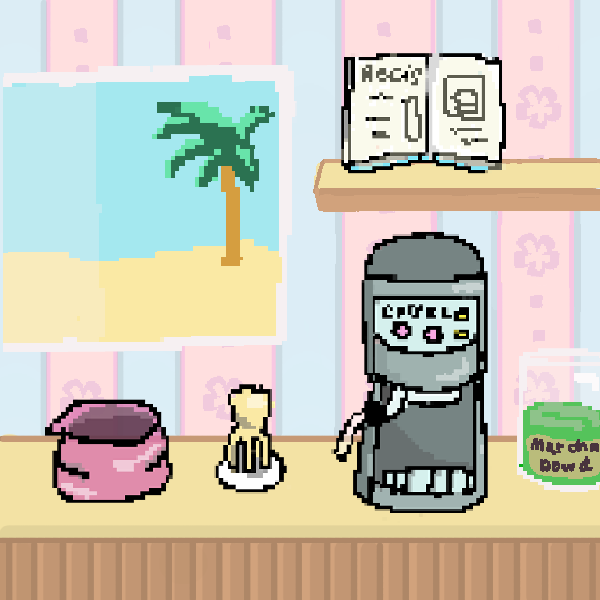
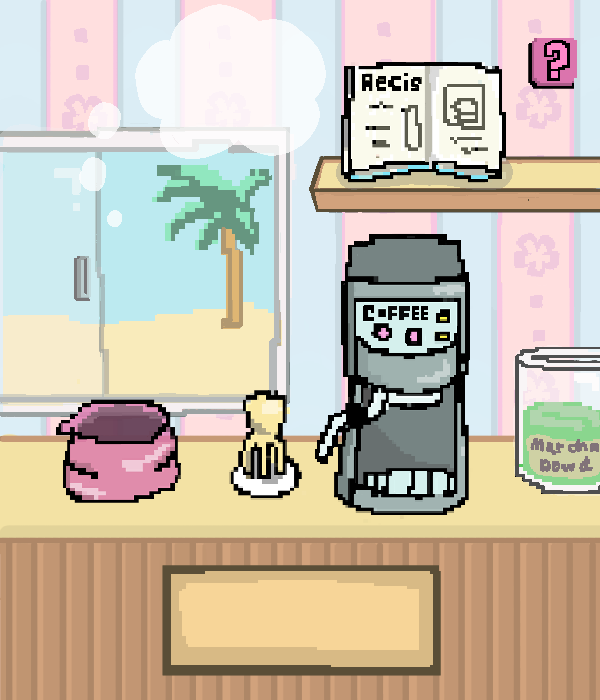
trying to add different screens and added new classes

diff --git a/demo-screens.py b/demo-screens.py
@@ -1,61 +1,59 @@
-# # From: https://academy.cs.cmu.edu/cpcs-docs/screens
+# From: https://academy.cs.cmu.edu/cpcs-docs/screens
 
-# from cmu_graphics import *
+from cmu_graphics import *
 
-# def onAppStart(app):
-#     # The model is shared between all screens
-#     app.score = 0
-#     app.highScore = 0
-#     app.fill = 'blue'
-#     app.x = 200
-#     app.y = 200
-#     app.r = 50
+def onAppStart(app):
+    # The model is shared between all screens
+    app.score = 0
+    app.highScore = 0
+    app.fill = 'blue'
+    app.x = 200
+    app.y = 200
+    app.r = 50
 
-# def distance(x1, y1, x2, y2):
-#     return ((x2 - x1)**2 + (y2 - y1)**2)**0.5
+def distance(x1, y1, x2, y2):
+    return ((x2 - x1)**2 + (y2 - y1)**2)**0.5
 
-# ############################################################
-# # Start Screen
-# ############################################################
+############################################################
+# Start Screen
+############################################################
 
-# def start_redrawAll(app):
-#     drawLabel('Welcome!', 200, 160, size=24, bold=True)
-#     # Note: we can access app.highScore (and all app variables) from any screen
-#     drawLabel(f'High Score: {app.highScore}', 200, 200, size=24)
-#     drawLabel('Press space to begin!', 200, 240, size=16)
+def start_redrawAll(app):
+    drawLabel('Welcome!', 200, 160, size=24, bold=True)
+    # Note: we can access app.highScore (and all app variables) from any screen
+    drawLabel(f'High Score: {app.highScore}', 200, 200, size=24)
+    drawLabel('Press space to begin!', 200, 240, size=16)
 
-# def start_onKeyPress(app, key):
-#     if key == 'space':
-#         setActiveScreen('game')
+def start_onMousePress(app, x, y):
+    if (x > 0) and (y > 0):
+        setActiveScreen('game')
 
-# ############################################################
-# # Game Screen
-# ############################################################
+############################################################
+# Game Screen
+############################################################
 
-# def game_onScreenActivate(app):
-#     # Every time we switch to the game screen, reset the score
-#     app.score = 0
+def game_onScreenActivate(app):
+    # Every time we switch to the game screen, reset the score
+    app.score = 0
 
-# def game_onMousePress(app, mouseX, mouseY):
-#     if distance(mouseX, mouseY, app.x, app.y) <= app.r:
-#         app.score += 1
+def game_onMousePress(app, mouseX, mouseY):
+    if distance(mouseX, mouseY, app.x, app.y) <= app.r:
+        app.score += 1
 
-# def game_redrawAll(app):
-#     drawLabel('Press the circle to increase your score!', 200, 40, size=20)
-#     drawLabel('Press r to return to the start screen', 200, 60, size=16)
-#     drawLabel(f'Score: {app.score}', 200, 130, size=16)
-#     drawCircle(app.x, app.y, app.r, fill = app.fill)
+def game_redrawAll(app):
+    drawLabel('Press the circle to increase your score!', 200, 40, size=20)
+    drawLabel('Press r to return to the start screen', 200, 60, size=16)
+    drawLabel(f'Score: {app.score}', 200, 130, size=16)
+    drawCircle(app.x, app.y, app.r, fill = app.fill)
 
-# def game_onKeyPress(app, key):
-#     if key == 'r':
-#         app.highScore = max(app.highScore, app.score)
-#         setActiveScreen('start')
+def game_onMousePress(app, x, y):
+    if x>0 and y >0:
+        setActiveScreen('start')
 
-# ############################################################
-# # Main
-# ############################################################
+############################################################
+# Main
 
-# def main():
-#     runAppWithScreens(initialScreen='start')
+def main():
+    runAppWithScreens(initialScreen='start')
 
-# main()
+main()

diff --git a/main.py b/main.py
@@ -1,31 +1,82 @@
 from cmu_graphics import *
 from PIL import Image, ImageDraw
-
-# from recipes.py import *
+import random
+from customer import *
+from food import *
 
 def onAppStart(app):
+    app.counter = 0
     app.width = 600
-    app.height = 600
-    app.stepsPerSecond = 2
-    app.stepCounter = 0
+    app.height = 700 
+    app.screen = 'start'  
+
+    app.orderNames = [
+         None, 
+        'coconut latte', 'iced americano',  
+        'iced matcha latte', 'hot matcha latte',
+        'ube pancake', 'pandan egg waffle',
+        'mango bingsoo', 'melon bingsoo'
+        ] 
+
+    # images
     app.kitchenImg = CMUImage(Image.open('images/kitchen.png'))
+    app.recipeImg = CMUImage(Image.open('images/recipeScene.png'))
+
+# Mouse Press and Change Screen Functions
+
+def onMousePress(app,mouseX,mouseY):
+    if app.screen == 'start':
+        if (mouseX> 0):
+            app.screen = 'kitchen'
+    elif app.screen == 'kitchen':
+        if (340 <= mouseX <= 500) and (60 <= mouseY <= 180):
+            app.screen = 'recipeBook'
+    
+############################################################
+# Start Screen
+############################################################
+
+def start_redrawAll(app):
+    drawLabel('start', 200, 160, size=24, bold=True)
+
+def start_onKeyPress(app, key):
+    if key == 'space':
+        setActiveScreen('kitchen')
+
+############################################################
+# Kitchen Screen
+############################################################
+
+def kitchen_onScreenActivate(app):
+    app.moneyMade = 0
+    app.moneySpent = 0
+    app.served = 0
+    custSprite = CMUImage(Image.open('customers/pink-still.png'))
+    app.currCust = Customer(custSprite, app.orderNames)
+
+def kitchen_redrawAll(app):
+    drawImage(app.kitchenImg, 0, 0, width = app.width, height = app.height)
+    drawImage(app.currCust.getImg(), 80, 207, width=189, height=189)
+    drawLabel(app.currCust.speak(), 240, 100, size = 10)
+    # drawRect(340, 60, 160, 120, fill = 'green', opacity = 50)
+
+def kitchen_onMousePress(app, x, y):
+    if (340 <= x <= 500) and (60 <= y <= 180):
+        setActiveScreen('recipeBook')
     
 
-def onStep(app):
-    app.stepCounter += 1   
+############################################################
+# Recipe Book Screen
+############################################################
 
-def redrawAll(app):
-    drawImage(app.kitchenImg, 0, 0, width = app.width, height = app.height)
-    if app.stepCounter%2 == 0:
-        customer = CMUImage(Image.open('customers/customers2.png'))
-    else:
-        customer = CMUImage(Image.open('customers/customers.png'))
-    drawImage(customer, 80, 150, width = 190, height = 187)
-    # drawImage(app.customer2Img, 50, 150, width = 229, height = 229)
+def recipeBook_redrawAll(app):
+    drawImage(app.recipeImg, 0, 0, width = app.width, height = app.height)
 
-
+############################################################
+# Main
+############################################################
 
 def main():
-    runApp()
+    runAppWithScreens(initialScreen='kitchen')
 
 main()

diff --git a/customer.py b/customer.py
@@ -1,0 +1,31 @@
+import random
+from food import Food
+
+phrases = [
+    "I'm indecisive,\nget me whatever you want!",
+    'Hello may I please\nget order please',
+    'mmm the order\nsounds perfect today',
+    'My friend told me to try\nthe order, get me one of those!'
+]
+
+class Customer:
+    def __init__(self, image, orderNames):
+        self.image = image
+        self.order  = orderNames[random.randrange(0, 9)]
+        if self.order == None:
+            self.phrase = phrases[0]
+        else: self.phrase = phrases[random.randrange(1, 4)]
+
+    def getImg(self):
+        return self.image
+
+    def getOrder(self):
+        return self.order
+
+    def speak(self):
+        if self.order != None:
+            phrase = self.phrase
+            orderIdx = phrase.find('order')
+            return phrase[:orderIdx] + self.order + phrase[orderIdx+5:]
+        else:
+            return self.phrase

diff --git a/food.py b/food.py
@@ -1,0 +1,42 @@
+orderPrices = [
+        None,
+        2.99, 1.99,
+        2.99, 2.99,
+        4.99, 4.99,
+        3.99, 3.99
+    ]
+
+orderCosts = [
+    None,
+    .30, .20,
+    .40, .40,
+    1.50, 1.50,
+    .99, .99
+]
+
+class Food:
+    
+    def __init__(self, name, orderList):
+        self.name = name
+        self.orderPrice = orderPrices[self.getIndex(orderList)]
+        self.orderCost = orderCosts[self.getIndex(orderList)]
+
+    def getIndex(self, orderList):
+        for i in range(len(orderList)):
+            if orderList[i] == self.name:
+                return i
+    
+    
+    
+# tests:
+orderNames = [
+         None, 
+        'coconut latte', 'iced americano',  
+        'iced matcha latte', 'hot matcha latte',
+        'ube pancake', 'pandan egg waffle',
+        'mango bingsoo', 'melon bingsoo'
+        ] 
+
+ube = Food('ube pancake', orderNames)
+
+print(ube.orderCost)

diff --git a/recipes.py b/recipes.py
@@ -1,3 +1,1 @@
-from cmu_graphics import *
-
-def 
+# from cmu_graphics import *
